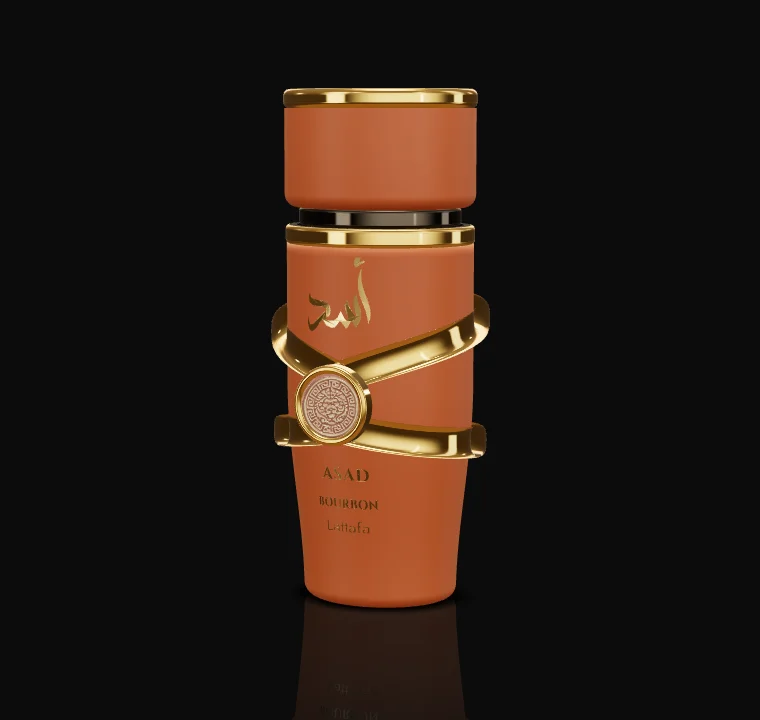
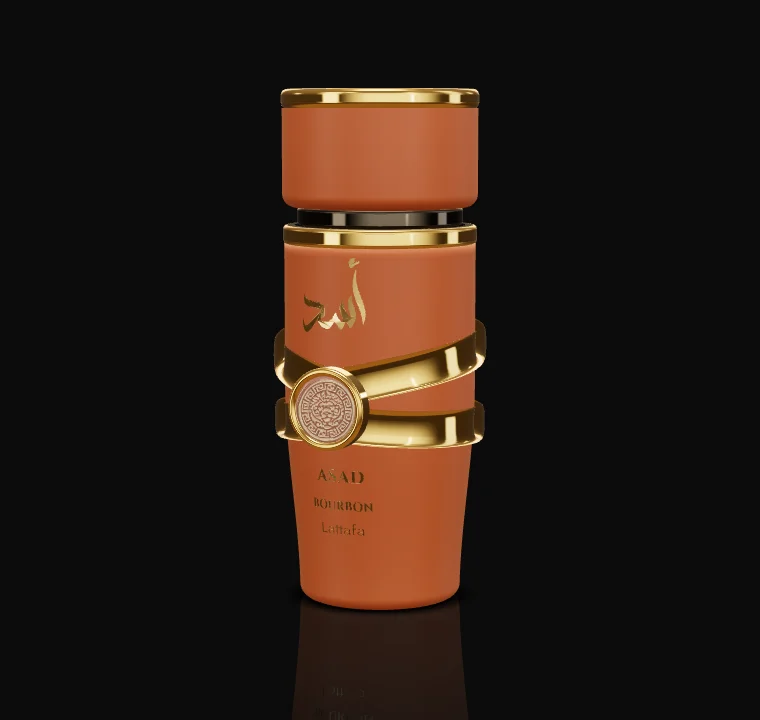
fix(home): Asad Bourbon fiel à foto — fitas largas e próximas, seção redonda
Ajustado sobrepondo o render à foto de frente do frasco real (mesma escala):
- seção redonda (Ø 50): nas vistas laterais do vídeo a largura é a mesma
  da frente — o oval deixava o frasco fino ao girar
- fitas douradas mais largas (9,4 mm), encostadas no corpo e bem mais
  próximas: a de cima desce íngreme até a moeda, a de baixo é quase reta;
  nas laterais os centros ficam a ~19 mm (antes ~30)
- parte de baixo um pouco mais cheia (pé Ø 42); moeda Ø 21 no cruzamento

Changed region(s): [[0.3329, 0.1222, 0.6658, 0.7639], [0.3934, 0.7333, 0.5447, 0.8861], [0.575, 0.7639, 0.6053, 0.8861]]

diff --git a/src/components/orium/home/bottles/asad-bourbon-3d.ts b/src/components/orium/home/bottles/asad-bourbon-3d.ts
@@ -8,7 +8,7 @@
  *   103   ┤ anel cromado escuro do gargalo (mais estreito)
  *    98,4 ┤ faixa dourada no topo do corpo
  *    93,6 ┤ corpo terracota acetinado: cheio até ~56 mm e afinando até o pé
- *            (Ø 50 → Ø 41), pé arredondado
+ *            (Ø 50 → Ø 42), pé arredondado
  *          · "أسد" em caligrafia dourada (Aref Ruqaa)
  *    54   ┤ · moeda Ø 20,5: aro dourado polido + face cobre com a grega e o
  *            leão em relevo (textura tirada do frasco real)
@@ -17,7 +17,7 @@
  *    34   ┤ · "ASAD / BOURBON" (Cinzel) e "Lattafa" em dourado
  *     0   ┴ pé
  *
- * Seção levemente oval (50 × 44). Letras: contornos reais das fontes (OFL), já
+ * Seção redonda (Ø 50). Letras: contornos reais das fontes (OFL), já
  * com o shaping do árabe, aplicados sobre a curvatura do frasco.
  */
 import * as THREE from "three";
@@ -25,16 +25,17 @@ import glyphs from "./asad-bourbon-glyphs.json";
 
 type GlyphText = { w: number; top: number; bot: number; s: { o: number[][]; h: number[][][] }[] };
 
-export const ASAD_SIZE = { W: 50, D: 44, H: 133.5, total: 133.5 };
+export const ASAD_SIZE = { W: 50, D: 50, H: 133.5, total: 133.5 };
 
 const BODY_H = 93.6;
-const OVAL = 44 / 50;
+// seção redonda: nas vistas laterais do vídeo a largura é a mesma da frente
+const OVAL = 1;
 const sstep = (a: number, b: number, x: number) => {
   const t = Math.min(1, Math.max(0, (x - a) / (b - a)));
   return t * t * (3 - 2 * t);
 };
 /** raio do corpo na altura y: cheio em cima, afinando de ~56 mm até o pé (medido na foto) */
-const bodyR = (y: number) => 20.6 + 4.4 * sstep(0, 56, y);
+const bodyR = (y: number) => 21.2 + 3.8 * sstep(0, 56, y);
 
 /** formas 2D do texto: escala (sx, sy) em mm por em, centralizado em x, base em y = 0 */
 function textGeometry(t: GlyphText, sx: number, sy: number) {
@@ -222,27 +223,29 @@ export function buildAsadBourbon(): THREE.Group {
   }
 
   /* fitas: chegam na moeda por cima e por baixo, abrem nas laterais e atrás */
-  // descem em "V" até a moeda (subida rápida perto da frente, suave nas laterais)
+  // medidas da sobreposição com a foto: largas e grossas, bem próximas — a de
+  // cima desce íngreme até a moeda, a de baixo é quase reta; nas laterais os
+  // centros ficam a ~19 mm um do outro; encostadas no corpo
   const open = (a: number) => Math.pow(Math.abs(Math.sin(a / 2)), 0.85);
   oval.add(
     new THREE.Mesh(
-      ribbon((a) => 60.6 + 16 * open(a), 8, 4.2),
+      ribbon((a) => 58.2 + 10.6 * open(a), 9.4, 2.8),
       gold,
     ),
   );
   oval.add(
     new THREE.Mesh(
-      ribbon((a) => 48.2 - 7.5 * open(a), 8, 4.2),
+      ribbon((a) => 49.6 - 3.6 * open(a), 9.4, 2.8),
       gold,
     ),
   );
 
   /* moeda: aro dourado polido + face cobre com a grega e o leão em relevo */
   {
-    const yc = 54.3,
-      R = 10.25;
+    const yc = 53.7,
+      R = 10.5;
     const coin = new THREE.Group();
-    coin.position.set(0, yc, bodyR(yc) + 4.2 + 1.7);
+    coin.position.set(0, yc, bodyR(yc) + 2.8 + 1.7);
     const rim = new THREE.Mesh(
       new THREE.CylinderGeometry(R, R, 3.4, 128).rotateX(Math.PI / 2),
       gold,
